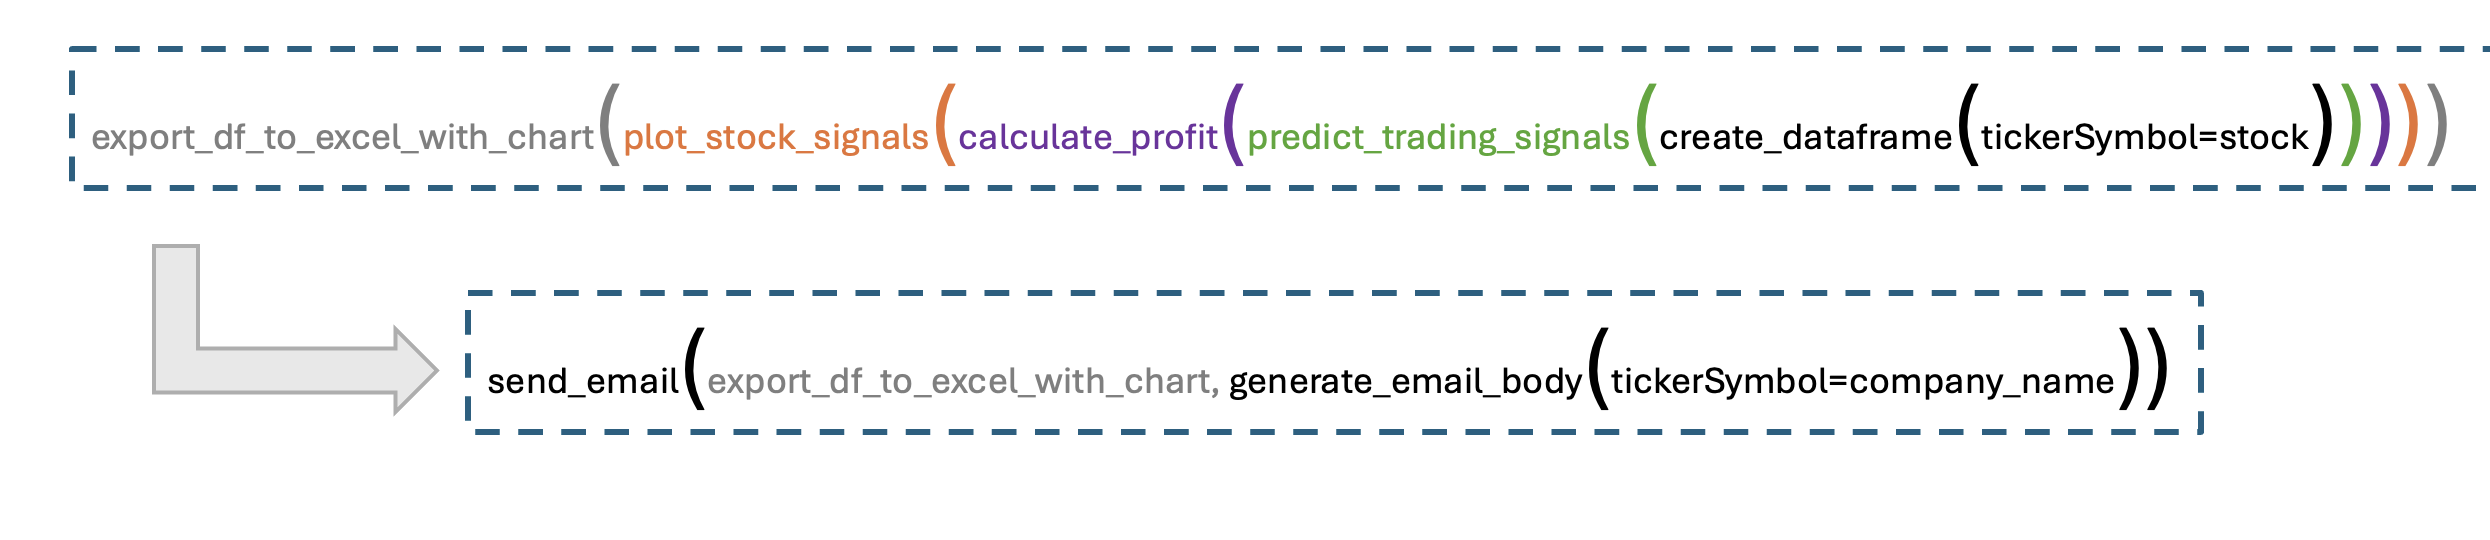
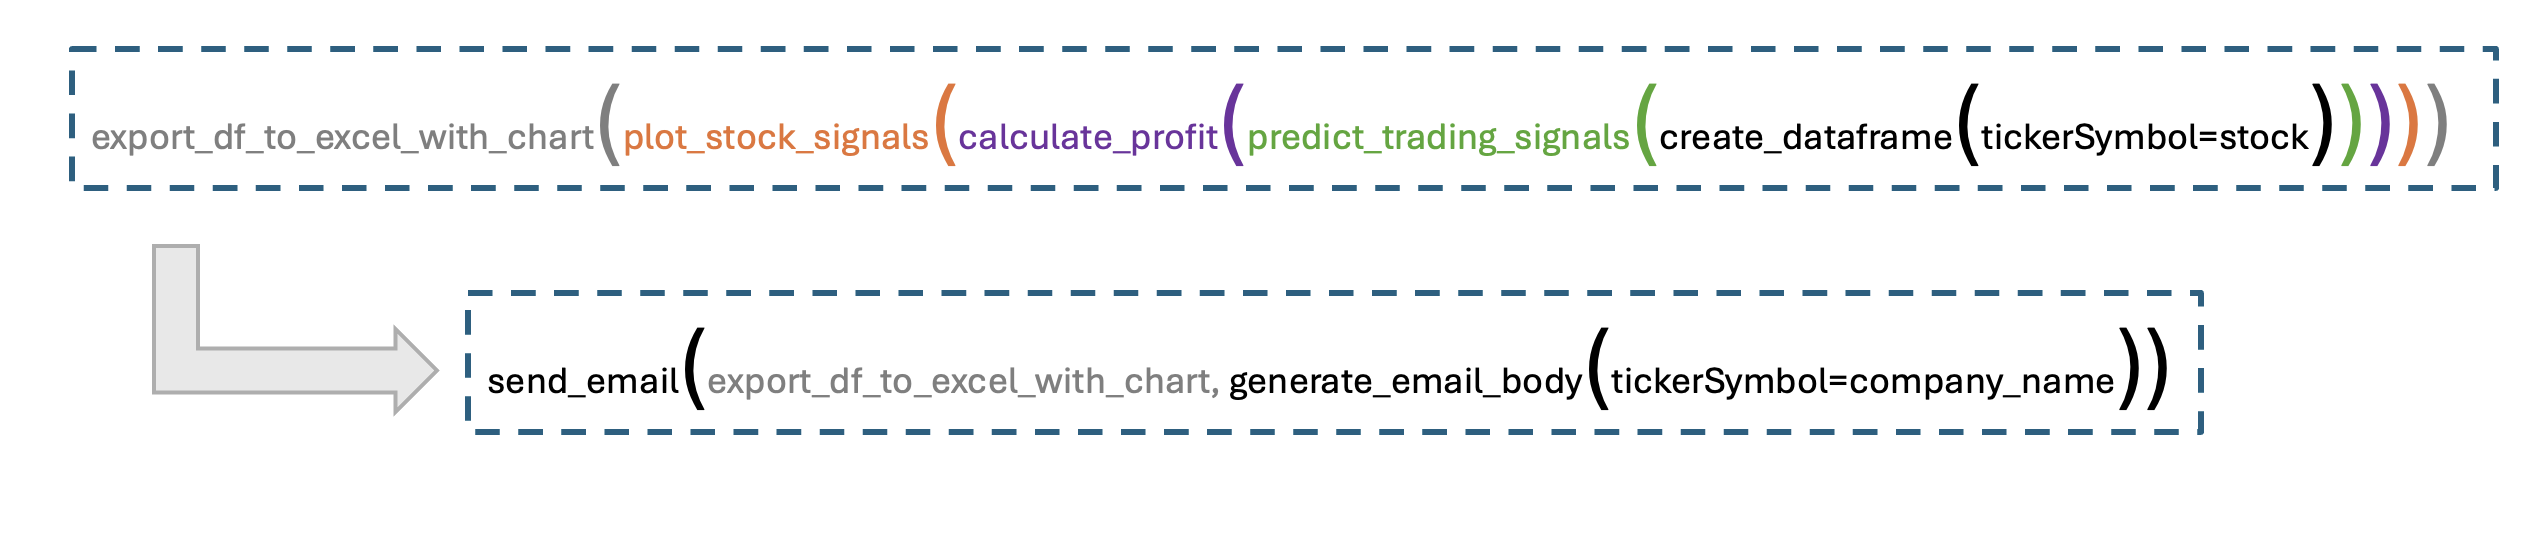
fx images

diff --git a/Readme.md b/Readme.md
@@ -22,7 +22,7 @@
 
 
 ### Python Packages
-<img src="https://github.com/Dandata0101/mbs-Stock-singal-project/blob/main/04-readme-images/Function.png" alt="Packages" style="width:700px;height: 300px;"> 
+<img src="https://github.com/Dandata0101/mbs-Stock-singal-project/blob/main/04-readme-images/Function.png" alt="Packages" style="width:500px;height: 200px;"> 
 
 ## Data Retrival
 
